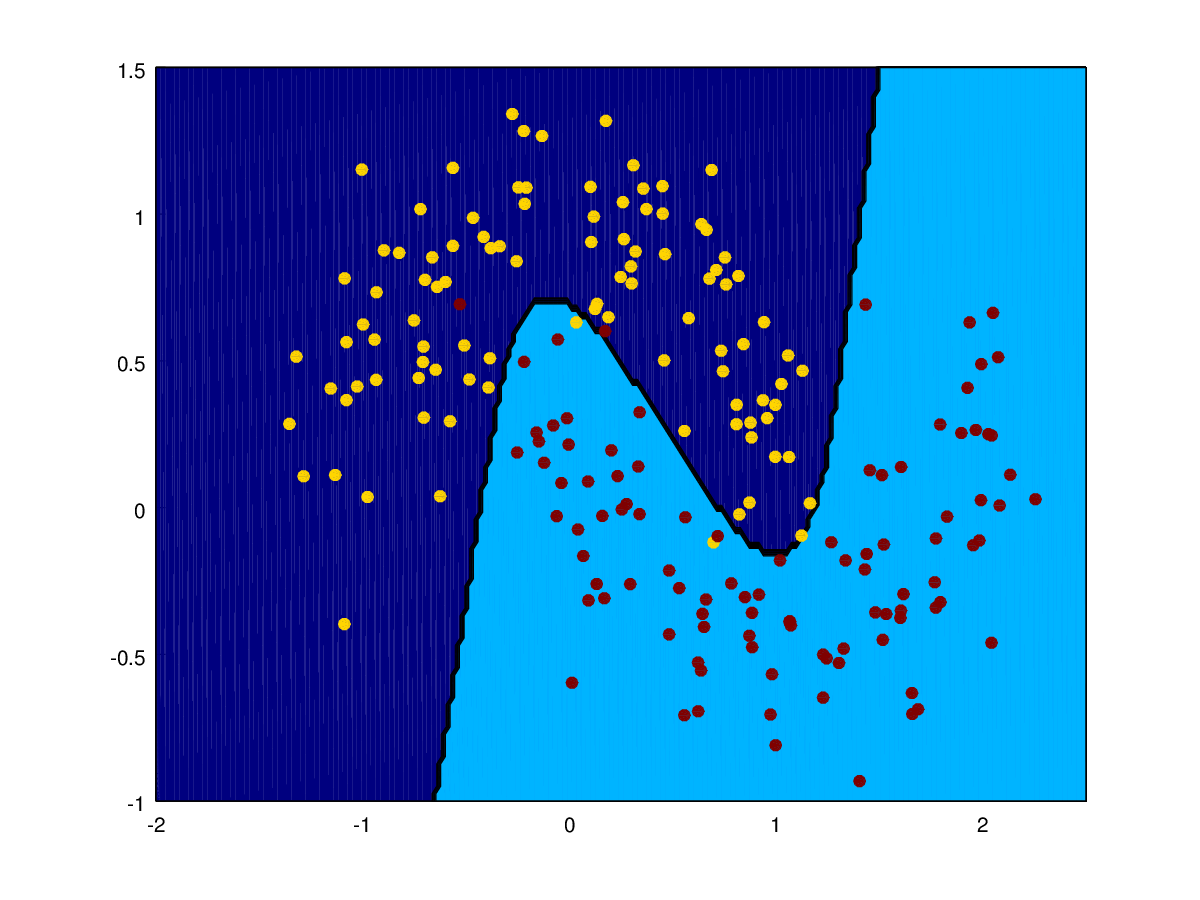
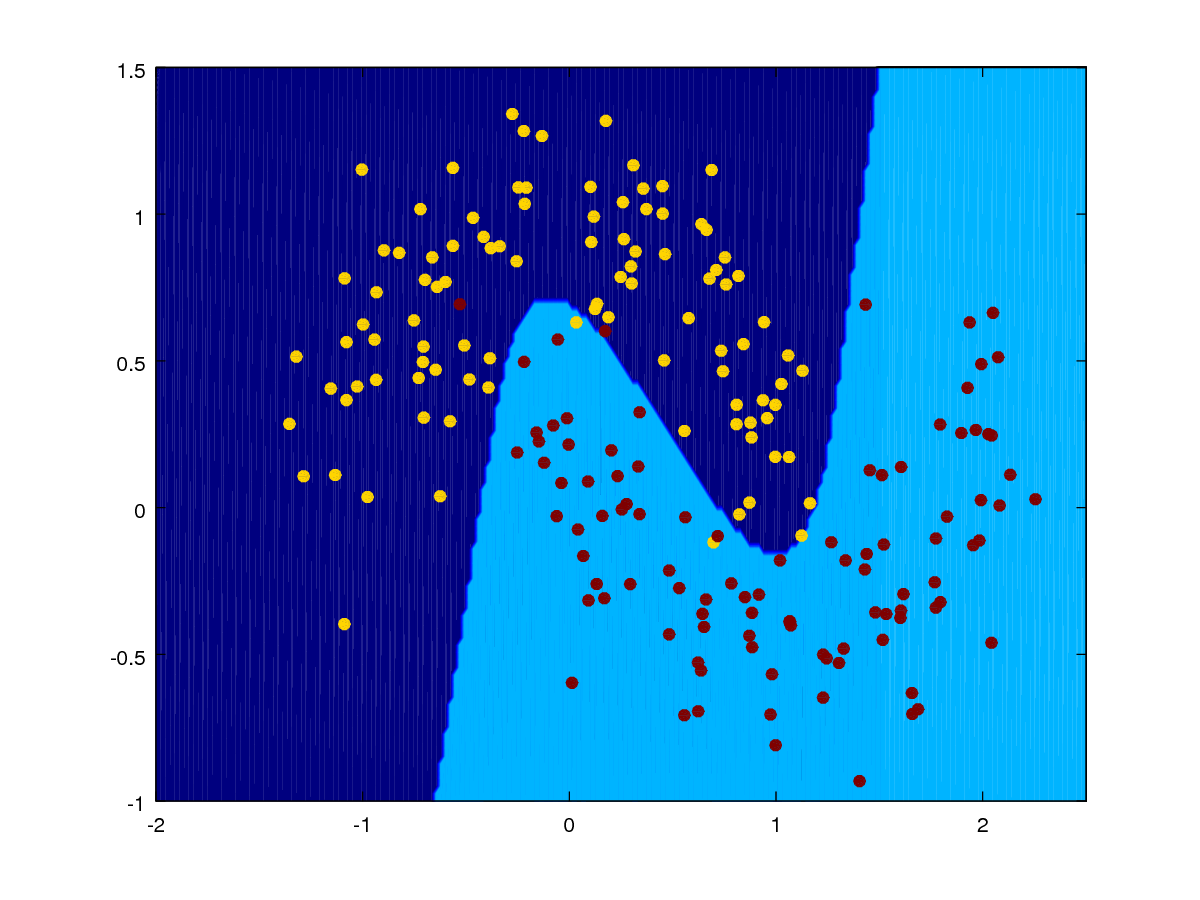
octave code using its own random initial parameters works as well

Changed region(s): [[0.0925, 0.0622, 0.925, 0.9022]]

diff --git a/basicNN/src/trainNN.m b/basicNN/src/trainNN.m
@@ -20,10 +20,10 @@ nn_hdim = 3;
 num_passes = 19999; #20000;
 
 #Initialize parameters to random numbers
-#W1=randn(nn_input_dim, nn_hdim)/ sqrt(nn_input_dim); #dimension nn_input_dim x nn_hdim
-#W2=randn(nn_hdim, nn_output_dim) /sqrt(nn_hdim); #dimension nn_hdim x nn_output_dim
-W1=load('initW1.dat');
-W2=load('initW2.dat');
+W1=randn(nn_input_dim, nn_hdim)/ sqrt(nn_input_dim); #dimension nn_input_dim x nn_hdim
+W2=randn(nn_hdim, nn_output_dim) /sqrt(nn_hdim); #dimension nn_hdim x nn_output_dim
+#W1=load('initW1.dat');
+#W2=load('initW2.dat');
 b1=zeros(1, nn_hdim); #dimension 1 x nn_hdim
 b2=zeros(1, nn_output_dim); #dimension 1 x nn_output_dim
 
@@ -64,3 +64,4 @@ for i=0:num_passes
     end
 end 
 save final.mat W1 W2 b1 b2
+predict

diff --git a/basicNN/src/initParams.py b/basicNN/src/initParams.py
@@ -1,0 +1,17 @@
+#!/usr/bin/python
+import numpy as np
+from sklearn import datasets, linear_model
+import matplotlib.pyplot as plt
+#Define constants
+nn_input_dim = 2; # input layer dimensionality
+nn_output_dim = 2; # output layer dimensionality
+nn_hdim = 3;
+num_passes = 2000; #20000;
+
+#Initialize parameters to random numbers
+np.random.seed(0)
+W1=np.random.randn(nn_input_dim, nn_hdim)/np.sqrt(nn_input_dim); #dimension nn_input_dim x nn_hdim
+W2=np.random.randn(nn_hdim, nn_output_dim) /np.sqrt(nn_hdim); #dimension nn_hdim x nn_output_dim
+np.savetxt('initW1.dat', W1,fmt="%.20f %.20f %.20f", delimiter='\n')
+np.savetxt('initW2.dat', W2,fmt="%.20f %.20f", delimiter='\n')
+
